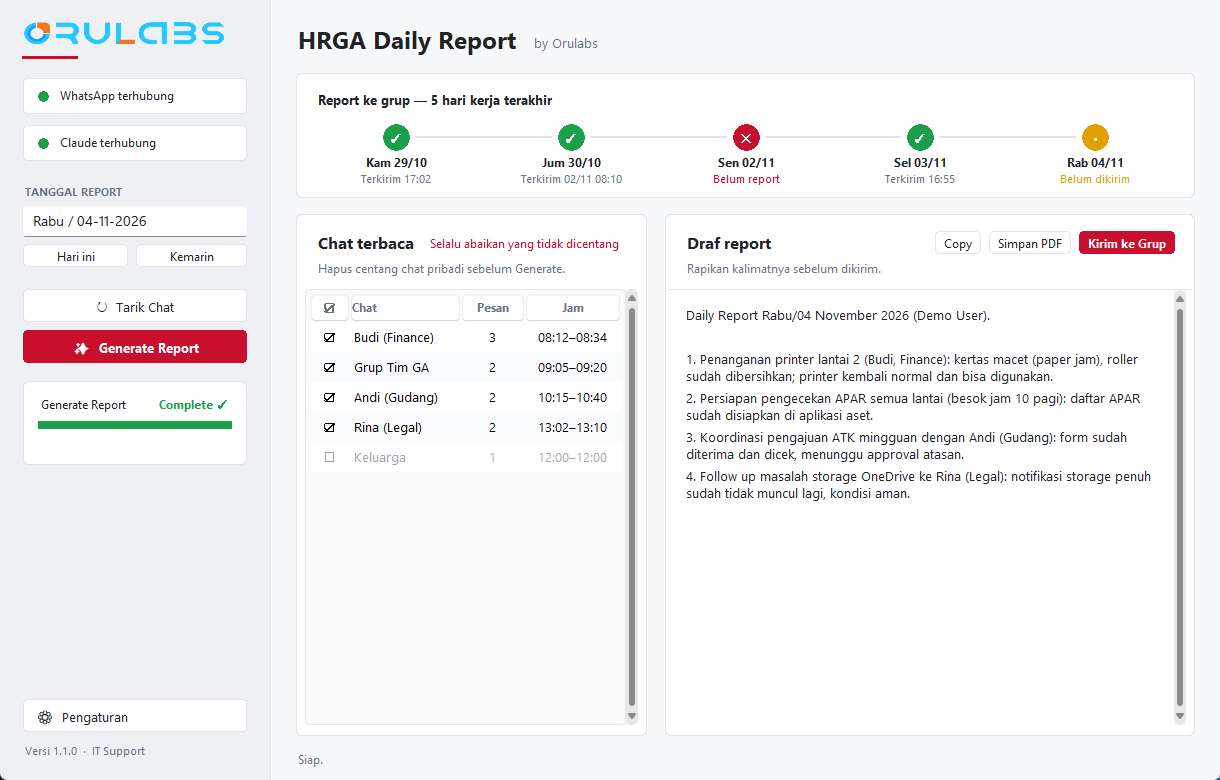
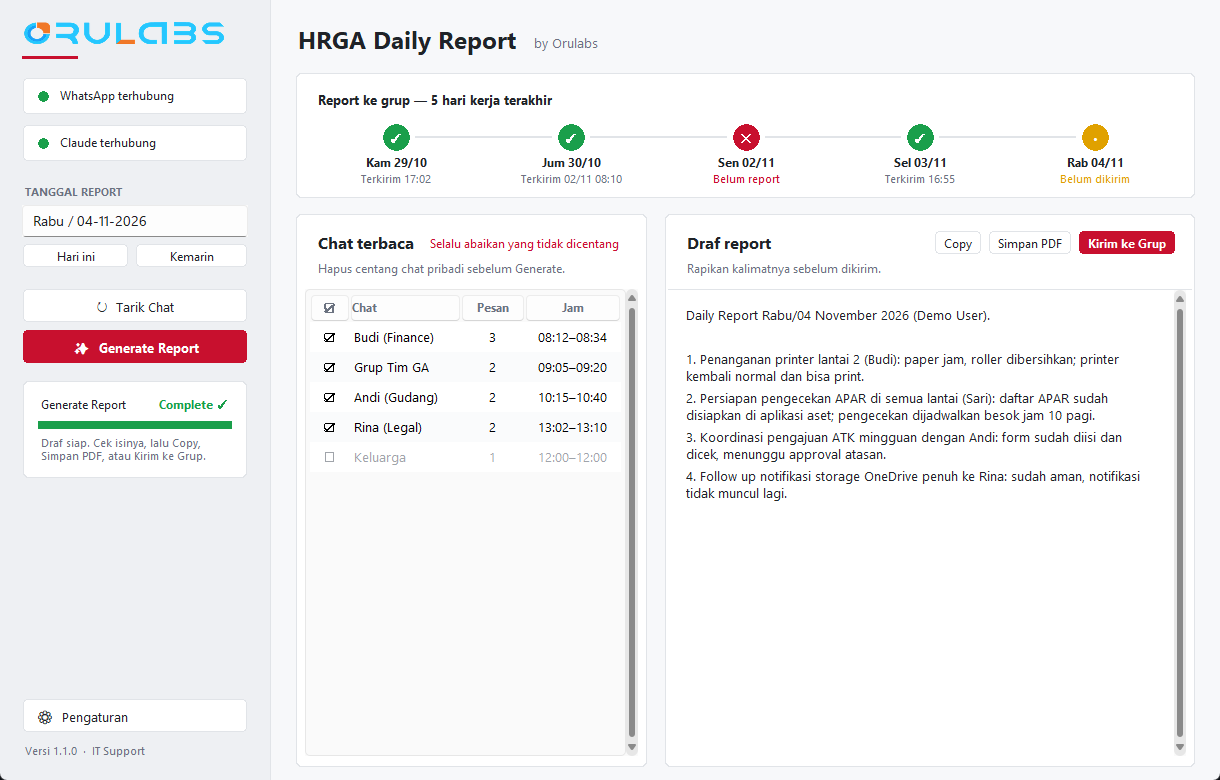
Screenshot README mengikuti tampilan 1.1.0; pesan draf menyebut Kirim ke Grup

diff --git a/core/i18n.py b/core/i18n.py
@@ -137,7 +137,7 @@ TEXT = {
         "reading": "Membaca chat {i}/{n}: {name}",
         "pulled": "{n} chat terbaca. Klik Generate Report.",
         "no_chats": "Belum ada chat. Klik Tarik Chat dulu.",
-        "generated": "Draf siap. Rapikan kalimatnya, lalu Copy, Simpan PDF, atau Kirim ke WhatsApp Saya.",
+        "generated": "Draf siap. Cek isinya, lalu Copy, Simpan PDF, atau Kirim ke Grup.",
         "copied": "Report disalin ke clipboard.",
         "empty_draft": "Draf report masih kosong.",
         "need_phone": "Isi No. WhatsApp sendiri dulu (mis. 0812xxxx).",
@@ -269,7 +269,7 @@ TEXT = {
         "reading": "Reading chat {i}/{n}: {name}",
         "pulled": "{n} chats read. Click Generate Report.",
         "no_chats": "No chats yet. Click Pull Chats first.",
-        "generated": "Draft ready. Tidy up the wording, then Copy, Save PDF, or Send to My WhatsApp.",
+        "generated": "Draft ready. Check it, then Copy, Save PDF, or Send to Group.",
         "copied": "Report copied to clipboard.",
         "empty_draft": "The report draft is empty.",
         "need_phone": "Fill in your WhatsApp number first (e.g. 0812xxxx).",
